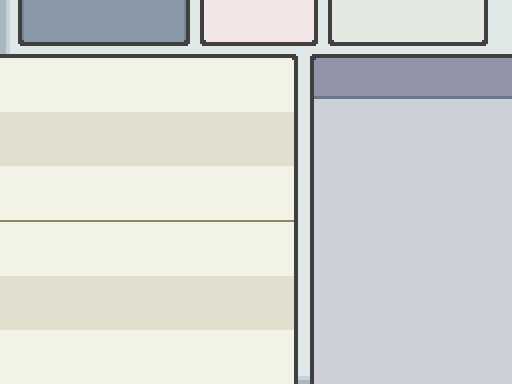
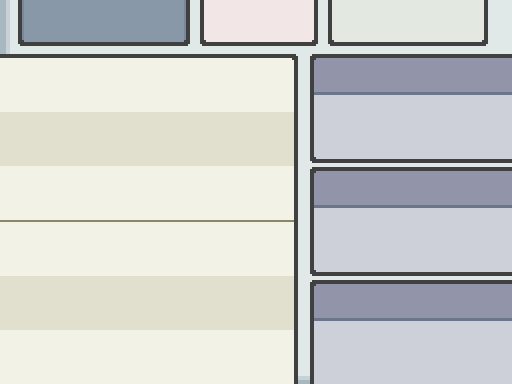
Battle info field effect display split into 3

Changed region(s): [[0.5938, 0.6875, 1.0, 0.8438], [0.5938, 0.4062, 1.0, 0.5625], [0.5938, 0.2188, 1.0, 0.2812]]

diff --git a/Plugins/Tectonic Battle/Scene/SceneMenus/BattleInfoDisplay.rb b/Plugins/Tectonic Battle/Scene/SceneMenus/BattleInfoDisplay.rb
@@ -148,59 +148,67 @@ class BattleInfoDisplay < SpriteWrapper
         textToDraw.push([weatherMessage, weatherX, 0, 2, weatherColor, shadow])
 
         # Whole field effects
-        wholeFieldX = 324
-        wholeFieldY = 58
-        textToDraw.push([_INTL("Field Effects"), wholeFieldX + 60, wholeFieldY, 2, lightBase, lightShadow])
+        wholeFieldX = 320
+        wholeFieldY = 54
+        textToDraw.push([_INTL("Field Effects"), wholeFieldX, wholeFieldY, 0, lightBase, lightShadow])
+        drawFieldEffects(@battle.field,wholeFieldX,wholeFieldY)
 
-        # Compile array of descriptors of each field effect
-        fieldEffects = []
-        pushEffectDescriptorsToArray(@battle.field, fieldEffects)
-        @battle.sides.each do |side|
-            thisSideEffects = []
-            pushEffectDescriptorsToArray(side, thisSideEffects)
-            if side.index == 1
-                thisSideEffects.map do |descriptor|
-                    "#{descriptor} [O]"
-                end
-            end
-            fieldEffects.concat(thisSideEffects)
-        end
-
-        fieldEffects.concat($Trainer.tribalBonus.getActiveBonusesList(true, false))
+        wholeFieldY += 112
+        textToDraw.push([_INTL("Our Side"), wholeFieldX, wholeFieldY, 0, lightBase, lightShadow])
+        ourTribesList = $Trainer.tribalBonus.getActiveBonusesList(true, false)
+        drawFieldEffects(@battle.sides[0],wholeFieldX,wholeFieldY,ourTribesList)
+        
+        wholeFieldY += 112
+        textToDraw.push([_INTL("Their Side"), wholeFieldX, wholeFieldY, 0, lightBase, lightShadow])
+        theirTribesList = []
         @battle.opponent&.each do |opponent|
-            fieldEffects.concat(opponent.tribalBonus.getActiveBonusesList(true, true))
+            theirTribesList.concat(opponent.tribalBonus.getActiveBonusesList(true, true))
         end
+        drawFieldEffects(@battle.sides[1],wholeFieldX,wholeFieldY,theirTribesList)
+
+        pbDrawTextPositions(bitmap, textToDraw)
+    end
+
+    def drawFieldEffects(effectHolder, xStart, yStart, tribesList = [])
+        base = MessageConfig::DARK_TEXT_MAIN_COLOR
+        shadow = MessageConfig::DARK_TEXT_SHADOW_COLOR
+
+        textToDraw = []
+
+        fieldEffects = []
+        pushEffectDescriptorsToArray(effectHolder, fieldEffects)
+        fieldEffects.concat(tribesList)
 
         # Render out the field effects
-        baseEffectY = wholeFieldY + 36
-        scrollingBoundYMin = wholeFieldY + 36
-        scrollingBoundYMax = wholeFieldY + 290
+        baseEffectY = yStart + 12
+        scrollingBoundYMin = yStart + 32
+        scrollingBoundYMax = yStart + 70
         if fieldEffects.length != 0
-            scrolling = true if fieldEffects.length > 8
+            scrolling = true if fieldEffects.length > 2
             index = 0
             repeats = scrolling ? 2 : 1
             for repeat in 0...repeats
                 fieldEffects.each do |effectName|
                     index += 1
-                    calcedY = baseEffectY + 32 * index
+                    calcedY = baseEffectY + 24 * index
                     if scrolling
                         calcedY -= @fieldScrollingValue
-                        calcedY += 8
+                        calcedY += 12
+                        next if calcedY < scrollingBoundYMin || calcedY > scrollingBoundYMax
                     end
-                    next if calcedY < scrollingBoundYMin || calcedY > scrollingBoundYMax
                     distanceFromFade = [calcedY - scrollingBoundYMin, scrollingBoundYMax - calcedY].min
                     textAlpha = scrolling ? ([distanceFromFade / 20.0, 1.0].min * 255).floor : 255
                     textBase = Color.new(base.red, base.blue, base.green, textAlpha)
                     textShadow = Color.new(shadow.red, shadow.blue, shadow.green, textAlpha)
-                    textToDraw.push([effectName, wholeFieldX, calcedY, 0, textBase, textShadow])
+                    textToDraw.push([effectName, xStart, calcedY, 0, textBase, textShadow])
                 end
             end
         else
-            textToDraw.push(["None", wholeFieldX, baseEffectY, 0, FADED_EFFECT_BASE, shadow])
+            textToDraw.push(["None", xStart, baseEffectY + 24, 0, FADED_EFFECT_BASE, shadow])
         end
 
         # Reset the scrolling once its scrolled through the entire list once
-        @fieldScrollingValue = 0 if @fieldScrollingValue > fieldEffects.length * 32
+        @fieldScrollingValue = 0 if @fieldScrollingValue > (fieldEffects.length + 2) * 32 + 6
 
         pbDrawTextPositions(bitmap, textToDraw)
     end
@@ -373,14 +381,14 @@ class BattleInfoDisplay < SpriteWrapper
         end
     end
 
-    def update(_frameCounter = 0)
+    def update(frameCounter = 0)
         super()
         pbUpdateSpriteHash(@sprites)
         if @individual.nil?
             @battlerScrollingValue = 0
-            @fieldScrollingValue += 1
+            @fieldScrollingValue += 1 if frameCounter % 2 == 0
         else
-            @battlerScrollingValue += 1
+            @battlerScrollingValue += 1 if frameCounter % 2 == 0
             @fieldScrollingValue = 0
         end
     end

diff --git a/Plugins/Tectonic Graphics and UI/Objects and windows/MessageConfig.rb b/Plugins/Tectonic Graphics and UI/Objects and windows/MessageConfig.rb
@@ -24,18 +24,18 @@ module MessageConfig
     @@narrowFont      = nil
 
     def self.pbDefaultTextMainColor(opposite: false)
-      if opposite ^ $PokemonSystem&.dark_mode == 0
-        return DARK_TEXT_MAIN_COLOR
-      else
+      if opposite ^ ($PokemonSystem&.dark_mode == 0)
         return LIGHT_TEXT_MAIN_COLOR
+      else
+        return DARK_TEXT_MAIN_COLOR
       end
     end
 
     def self.pbDefaultTextShadowColor(opposite: false)
-      if opposite ^ $PokemonSystem&.dark_mode == 0
-        return DARK_TEXT_SHADOW_COLOR
-      else
+      if opposite ^ ($PokemonSystem&.dark_mode == 0)
         return LIGHT_TEXT_SHADOW_COLOR
+      else
+        return DARK_TEXT_SHADOW_COLOR
       end
     end
 

diff --git a/Plugins/Tectonic Battle/Effects/EffectDefinitions/FieldEffects.rb b/Plugins/Tectonic Battle/Effects/EffectDefinitions/FieldEffects.rb
@@ -27,7 +27,7 @@ GameData::BattleEffect.register_effect(:Field, {
 
 GameData::BattleEffect.register_effect(:Field, {
     :id => :Gravity,
-    :real_name => "Gravity Turns",
+    :real_name => "Gravity",
     :type => :Integer,
     :ticks_down => true,
     :apply_proc => proc do |battle, _value|

diff --git a/Plugins/Tectonic Battle/TribalBonus.rb b/Plugins/Tectonic Battle/TribalBonus.rb
@@ -40,7 +40,6 @@ class TribalBonus
         @tribesGivingBonus.each do |tribeID|
             description = getTribeName(tribeID)
             description += _INTL(" Tribe") if concat
-            description += _INTL(" [O]") if foe
             list.push(description)
         end
 
